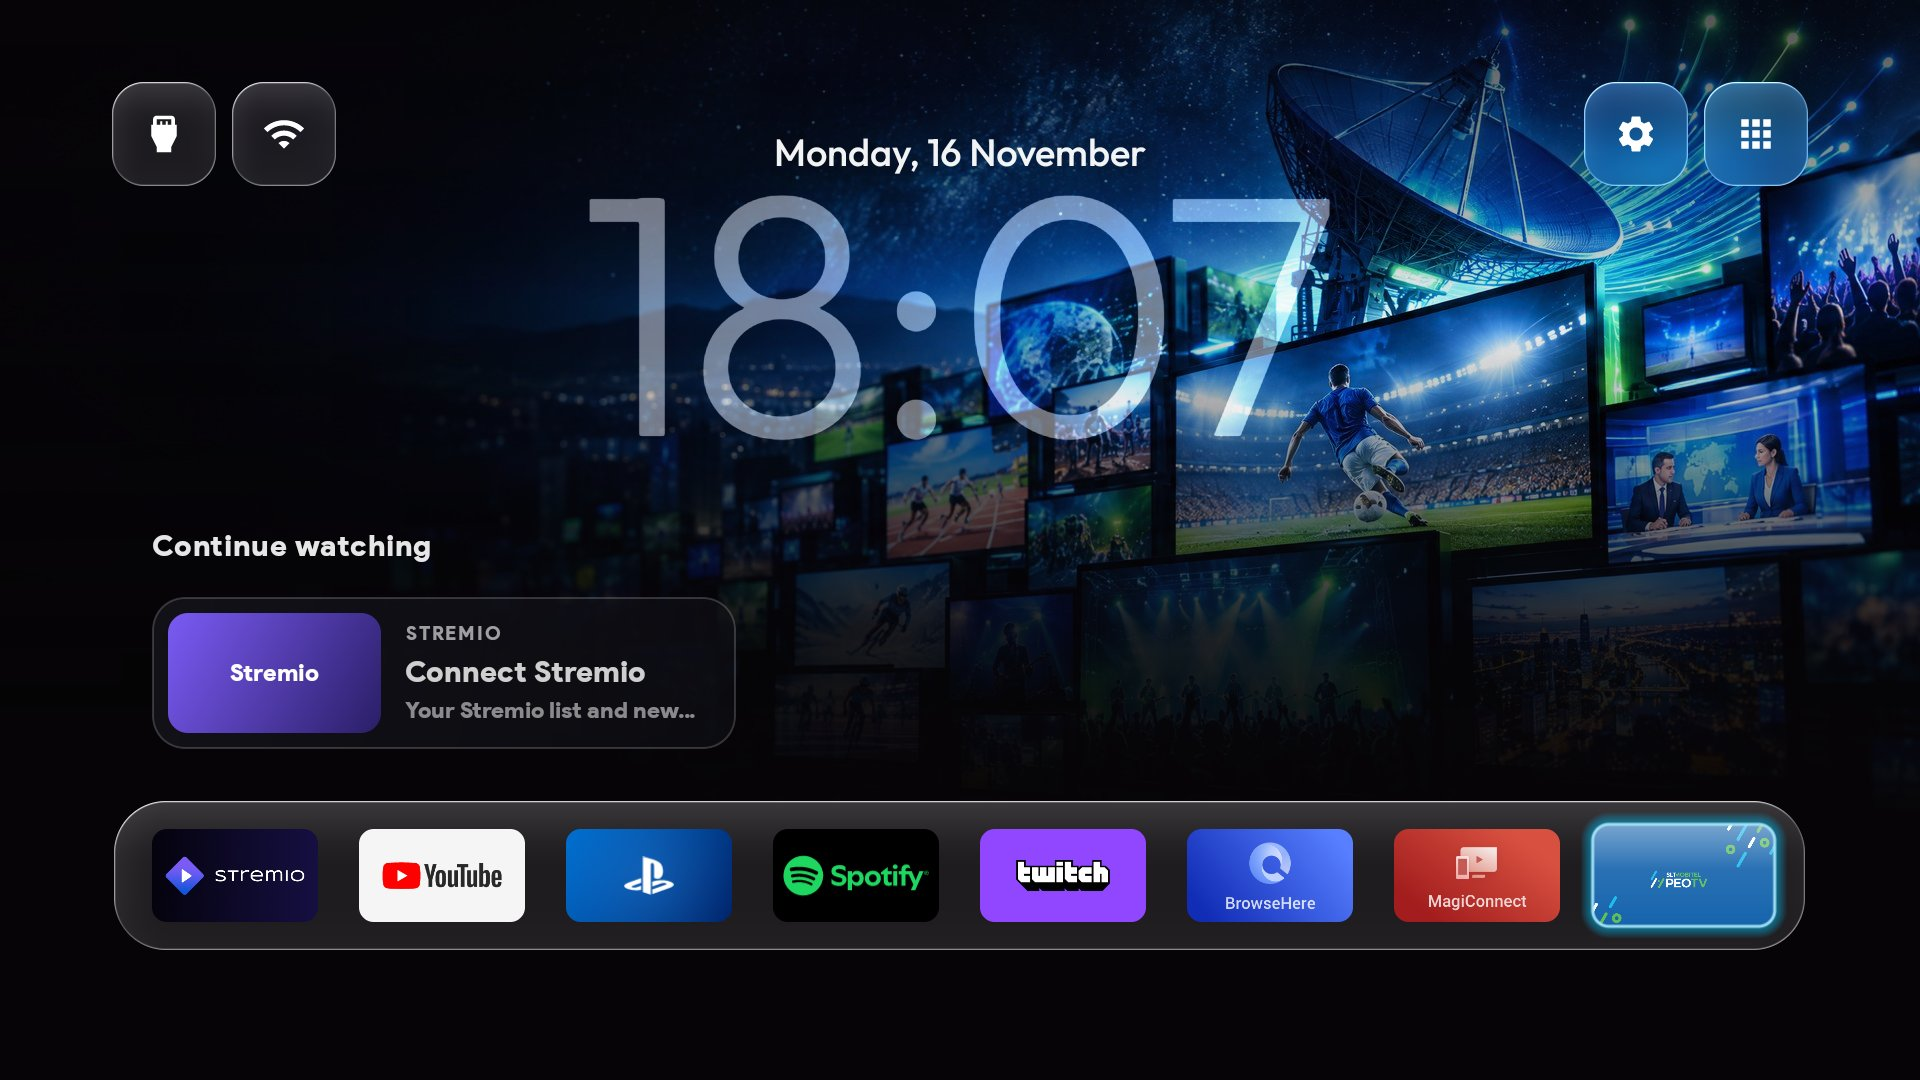
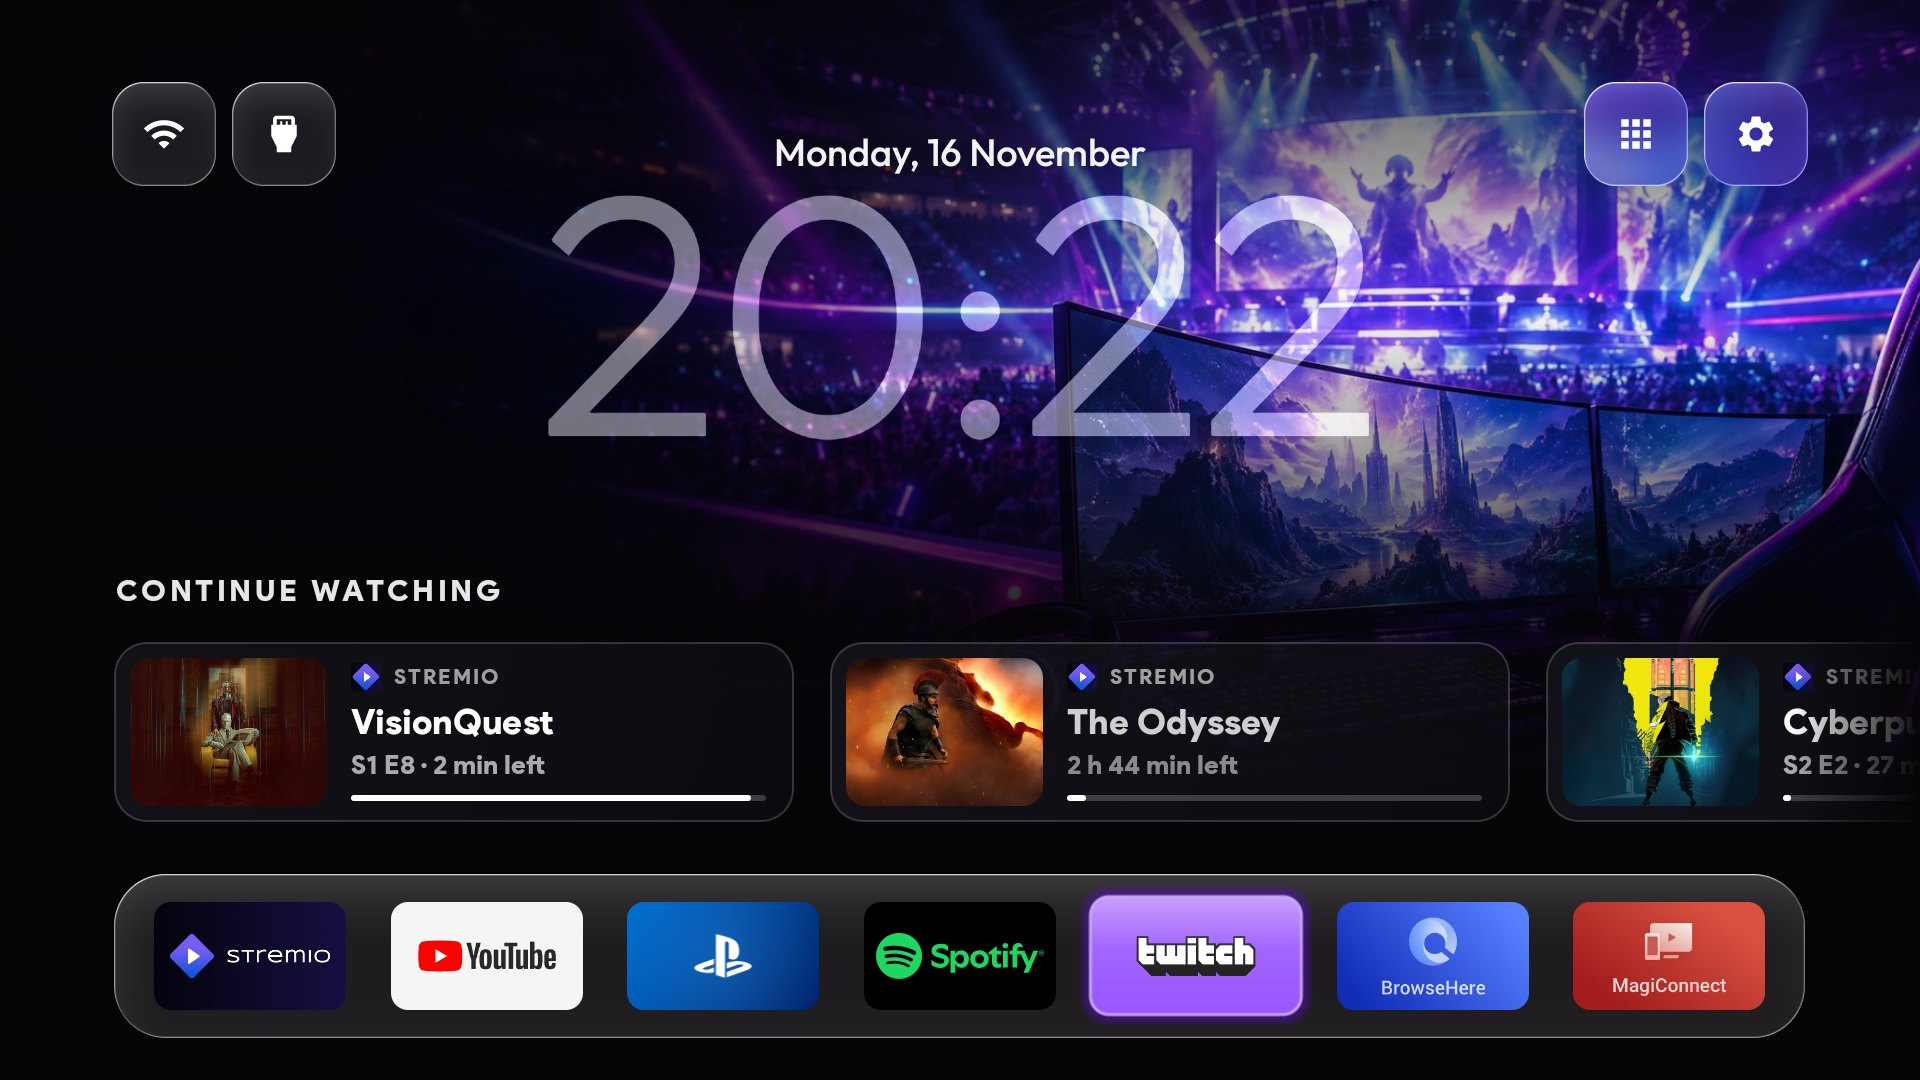
my-tv: README describes the idle stop, the intro and the song's card, with screenshots

diff --git a/my-tv/README.md b/my-tv/README.md
@@ -19,27 +19,43 @@ APK: the launcher reads them from its theme folder on the TV.
 | Folder | What it is | Launcher switch |
 |---|---|---|
 | `heroes/<package>.jpg` | A 1920x1080 banner for each dock app, shown at the top when that app is focused. `input.playstation.jpg` is the PlayStation tile's | `hero_banners` (with `cinematic_home`) |
-| `icons/<package>.png` | A 320x320 glossy icon for each app in the grid under the dock; the grid's colour wash is taken from it | `icon_grid`, `grid_glow` |
+| `icons/<package>.png` | A 320x320 glossy icon for each app in the grid under the dock, and for the dock's square tiles while a song plays; the grid's colour wash is taken from it | `icon_grid`, `grid_glow` |
+| `wallpapers/*.jpg` | 1920x1080 lock-screen wallpapers behind the immersive Home, rotated by `config.json` | `immersive_home` |
 
 All of it was made with Higgsfield (GPT Image 2.5). The banner prompts are in [`heroes/PROMPTS.md`](heroes/PROMPTS.md);
 the icons come from [`icons/gen_icons.py`](icons/gen_icons.py), which skips any icon that is already there.
 
 ## Immersive Home
 
-![Immersive Home: the date over a large time blended into PeoTV's banner, Continue watching over the eight-app dock](screenshots/home-immersive.jpg)
+![Immersive Home: the date over a large time blended into the focused app's banner, Continue watching over the seven-app dock](screenshots/home-immersive.jpg)
 
 `immersive_home` turns Home into a lock screen. The date stands over a large time in the middle, and the time is
-blended into the picture behind it rather than painted on top: an overlay pass lifts the banner inside the digits and
-a faint white pass frosts them, so the focused app's banner shows through the numbers and their colour changes with
-it (`ImmersiveClock`). Inputs and Wi-Fi sit at the top left, Settings and Apps at the top right. Continue watching is
-one line of compact glass cards that scrolls sideways, right over the dock: the picture at the left, then the app,
-the title, the episode or channel with the time left, and how far in. Focusing a card puts its cover behind
-everything, as a dock app puts its banner.
+blended into the picture behind it rather than painted on top: an overlay pass lifts the picture inside the digits and
+a faint white pass frosts them, so the wallpaper or the focused app's banner shows through the numbers and their colour
+changes with it (`ImmersiveClock`). Wi-Fi and Inputs sit at the top left, Apps and Settings at the top right.
 
-Up from the dock goes to Continue watching and on to the nearest top button; Down comes back the same way. The app's
-name over the dock and the Continue watching chips are left out. The dock holds eight apps (`columns` 8), MagiConnect
-and PeoTV among them. Set `immersive_home` to false in `config.xml` (or `"immersive_home": false` in a theme) to
-go back to the clock at the top left, the four buttons at the top right and Continue watching under the dock.
+Home starts on the wallpaper with nothing selected: no highlight and no app's banner, only the clock over the
+wallpaper, with Continue watching and the dock below. When the TV is switched on it comes up with an intro: the
+picture rises out of black while settling from a slight zoom, the date and the time rise into it, the top buttons ease
+in, then Continue watching and the dock rise from below. The same "nothing selected" stop sits between the top
+buttons and Continue watching, and Home and Back on Home go back to it.
+
+Continue watching is one line of compact glass cards that scrolls sideways from screen edge to screen edge: a 4:3
+picture cropped from the middle of the art, then the app, the title, the episode or channel with the time left, and
+how far in. Cards scrolled past either end fade out, and a focused card always stops clear of the fades. Focusing a
+card puts its cover behind everything, as a dock app puts its banner. The dock holds seven apps (`columns` 7).
+
+![While a song plays: its card at the right of Continue watching and the dock, the dock's tiles as glossy squares](screenshots/home-immersive-song.jpg)
+
+While a song plays, its card stands at the right, as wide as two dock tiles and as tall as Continue watching's cards
+and the dock together. The dock steps aside for it: its tiles turn into squares that show each app's glossy icon from
+`icons/` and fill the room left, and Continue watching ends, fading, before the card. Right from the last dock tile
+selects the card and OK opens the app that plays. When the music stops, the banners come back.
+
+The wallpapers are in [`wallpapers/`](wallpapers) (prompts in [`wallpapers/PROMPTS.md`](wallpapers/PROMPTS.md)).
+[`config.json`](config.json) is the theme file that turns their rotation on; Home moves to the next one each time the
+TV is switched on. Set `immersive_home` to false in `config.xml` (or `"immersive_home": false` in a theme) to go back
+to the clock at the top left, the four buttons at the top right and Continue watching under the dock.
 
 ## Put it on the TV
 
